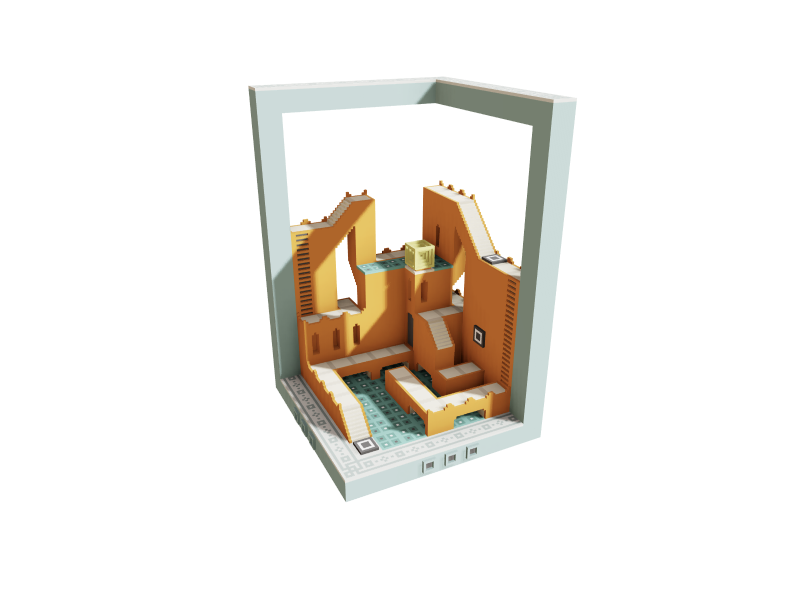
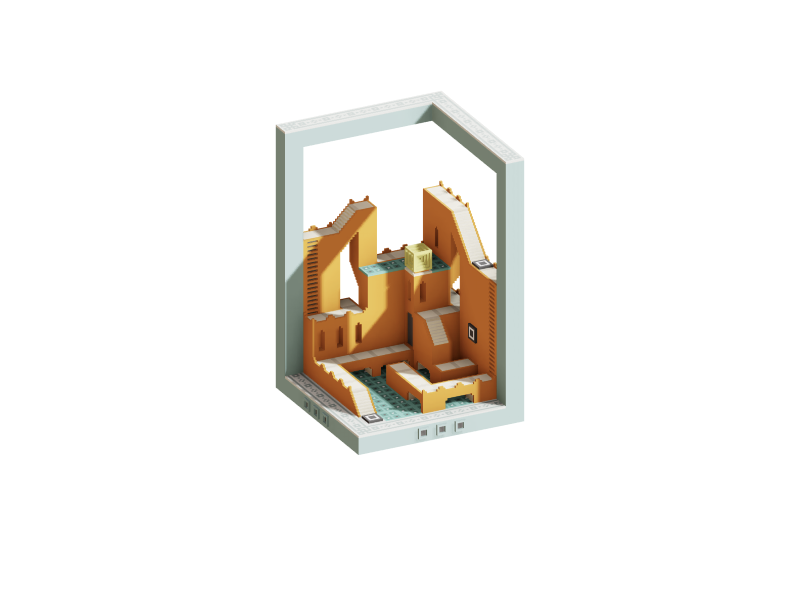
Use orthographic camera in Monument example

Changed region(s): [[0.3125, 0.12, 0.7188, 0.84]]

diff --git a/examples-src/advancedRenderer/advancedRenderer.js b/examples-src/advancedRenderer/advancedRenderer.js
@@ -21,7 +21,7 @@ var app = clay.application.create('#viewport', {
         });
 
         // Create camera
-        this._camera = app.createCamera([-10, 15, 20], [0, 5, 0]);
+        this._camera = app.createCamera([-10, 15, 20], [0, 5, 0], 'orthographic', [35, app.height / app.width * 35, 50]);
 
         this._control = new clay.plugin.OrbitControl({
             target: this._camera,

diff --git a/examples/advancedRenderer.html b/examples/advancedRenderer.html
@@ -73,7 +73,7 @@
         });
 
         // Create camera
-        this._camera = app.createCamera([-10, 15, 20], [0, 5, 0]);
+        this._camera = app.createCamera([-10, 15, 20], [0, 5, 0], 'orthographic', [35, app.height / app.width * 35, 50]);
 
         this._control = new clay.plugin.OrbitControl({
             target: this._camera,
